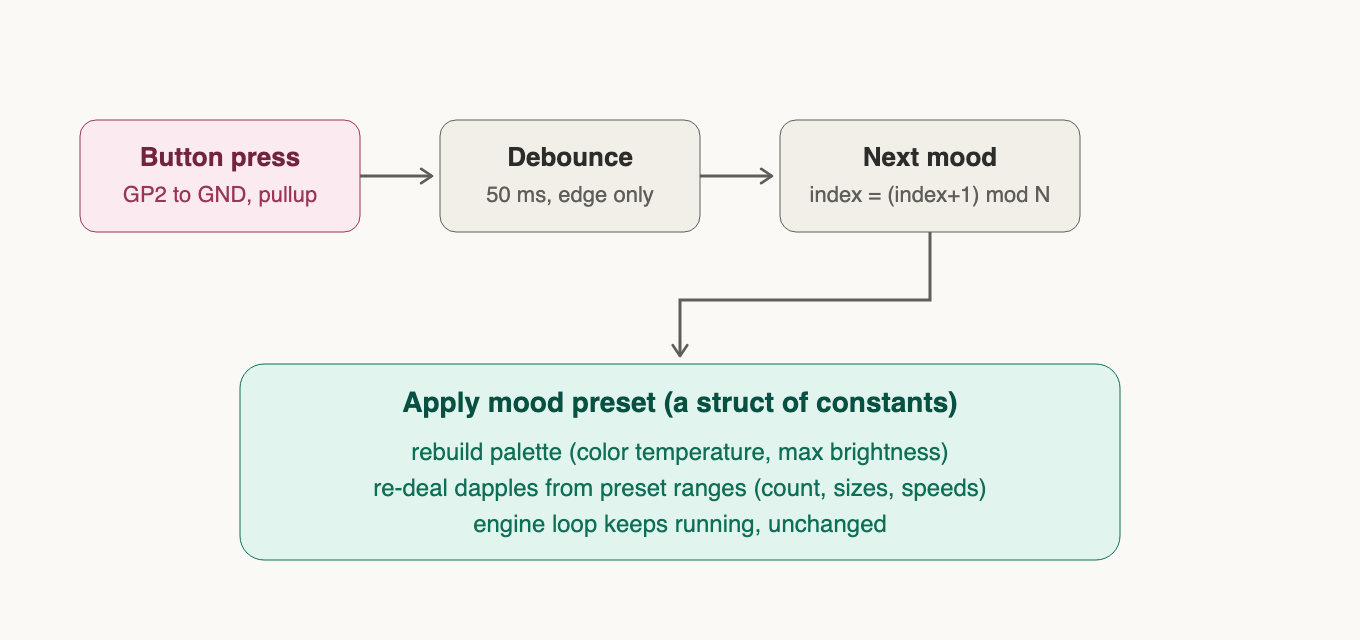
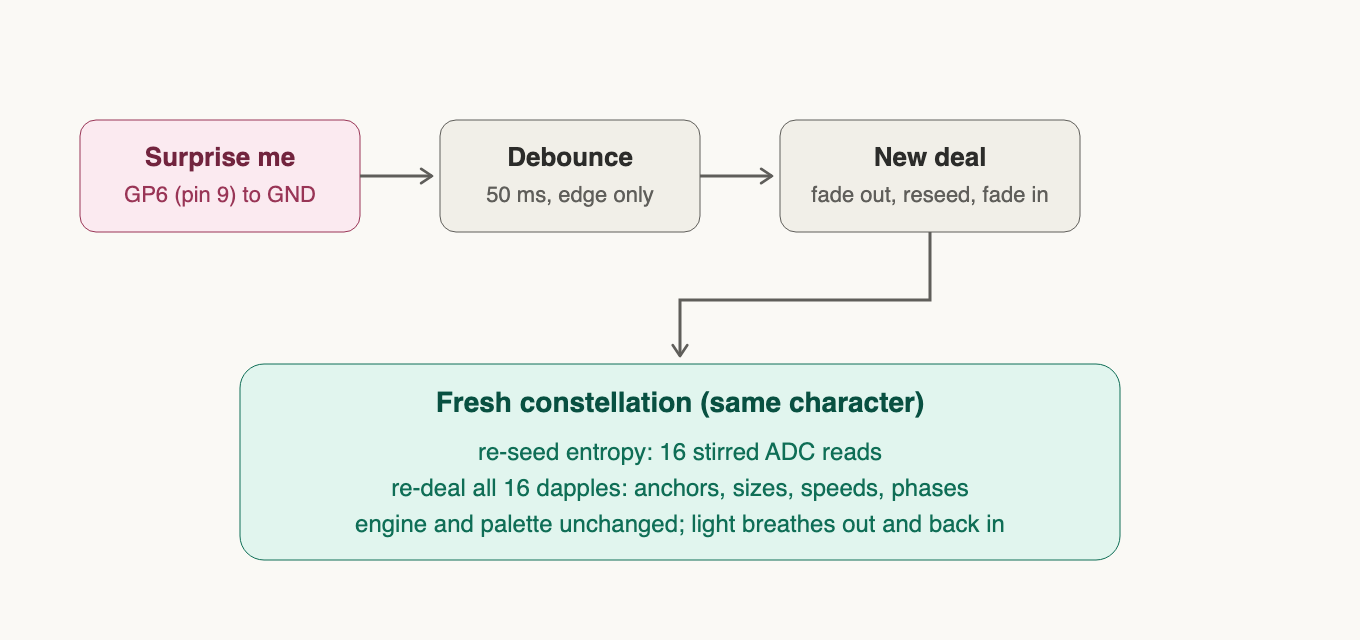
Surprise button on GP6/pin9: debounced press = fade out, re-seed, re-deal, fade in; README + diagram updated

diff --git a/README.md b/README.md
@@ -60,26 +60,26 @@ per-frame work is integer adds, multiplies, and shifts.
 - **`swap()`** waits for vsync and flips buffers; no tearing, no half-drawn
   frames.
 
-## Mood button (planned)
+## The "surprise me" button
 
-A single momentary button (GP2 to GND, internal pull-up) will cycle between
-"moods" — presets that re-skin the same engine without touching its logic.
+One momentary button between **GP6 (physical pin 9) and GND (physical pin
+8)** — two adjacent pins, no resistor needed (internal pull-up). Enclosure
+label: *surprise me*.
 
-![Mood button flow](assets/mood_button.png)
+![Surprise button flow](assets/mood_button.png)
 
-Each press is debounced (~50 ms, falling edge only), advances
-`mood = (mood + 1) % N_MOODS`, and applies a preset struct:
+A press never hard-cuts. The light breathes out (~0.8 s eased fade to
+black), the RNG is re-seeded from 16 stirred floating-ADC reads, all 16
+dapples are re-dealt (new anchors, sizes, speeds, phases), and the light
+breathes back in (~1.2 s). Same character, fresh constellation — the same
+thing a power cycle does, minus the wait, plus the grace.
 
-- **Palette rebuild** — color temperature and max brightness (e.g. midday
-  white vs late-afternoon amber vs dim moonlight). 256 `setColor()` calls,
-  effectively free.
-- **Re-deal dapples** — the preset supplies the random *ranges* (dapple
-  count, size distribution, drift speeds, breathing rates), then dapples are
-  regenerated exactly like at boot. A "breeze" mood = livelier small
-  dapples; a "still evening" = fewer, slower, dimmer.
+Debounce is 50 ms on the falling edge, and presses are ignored while a
+fade is already running.
 
-The engine loop itself never changes — a mood is data, not code. GP2 is free
-on this board (DVI uses GP12–19, entropy uses A0/GP26).
+Mood *presets* (palette temperature + parameter ranges as data) remain an
+easy future addition on the same engine, e.g. on long-press — see
+`context` notes.
 
 ## Repo layout
 
